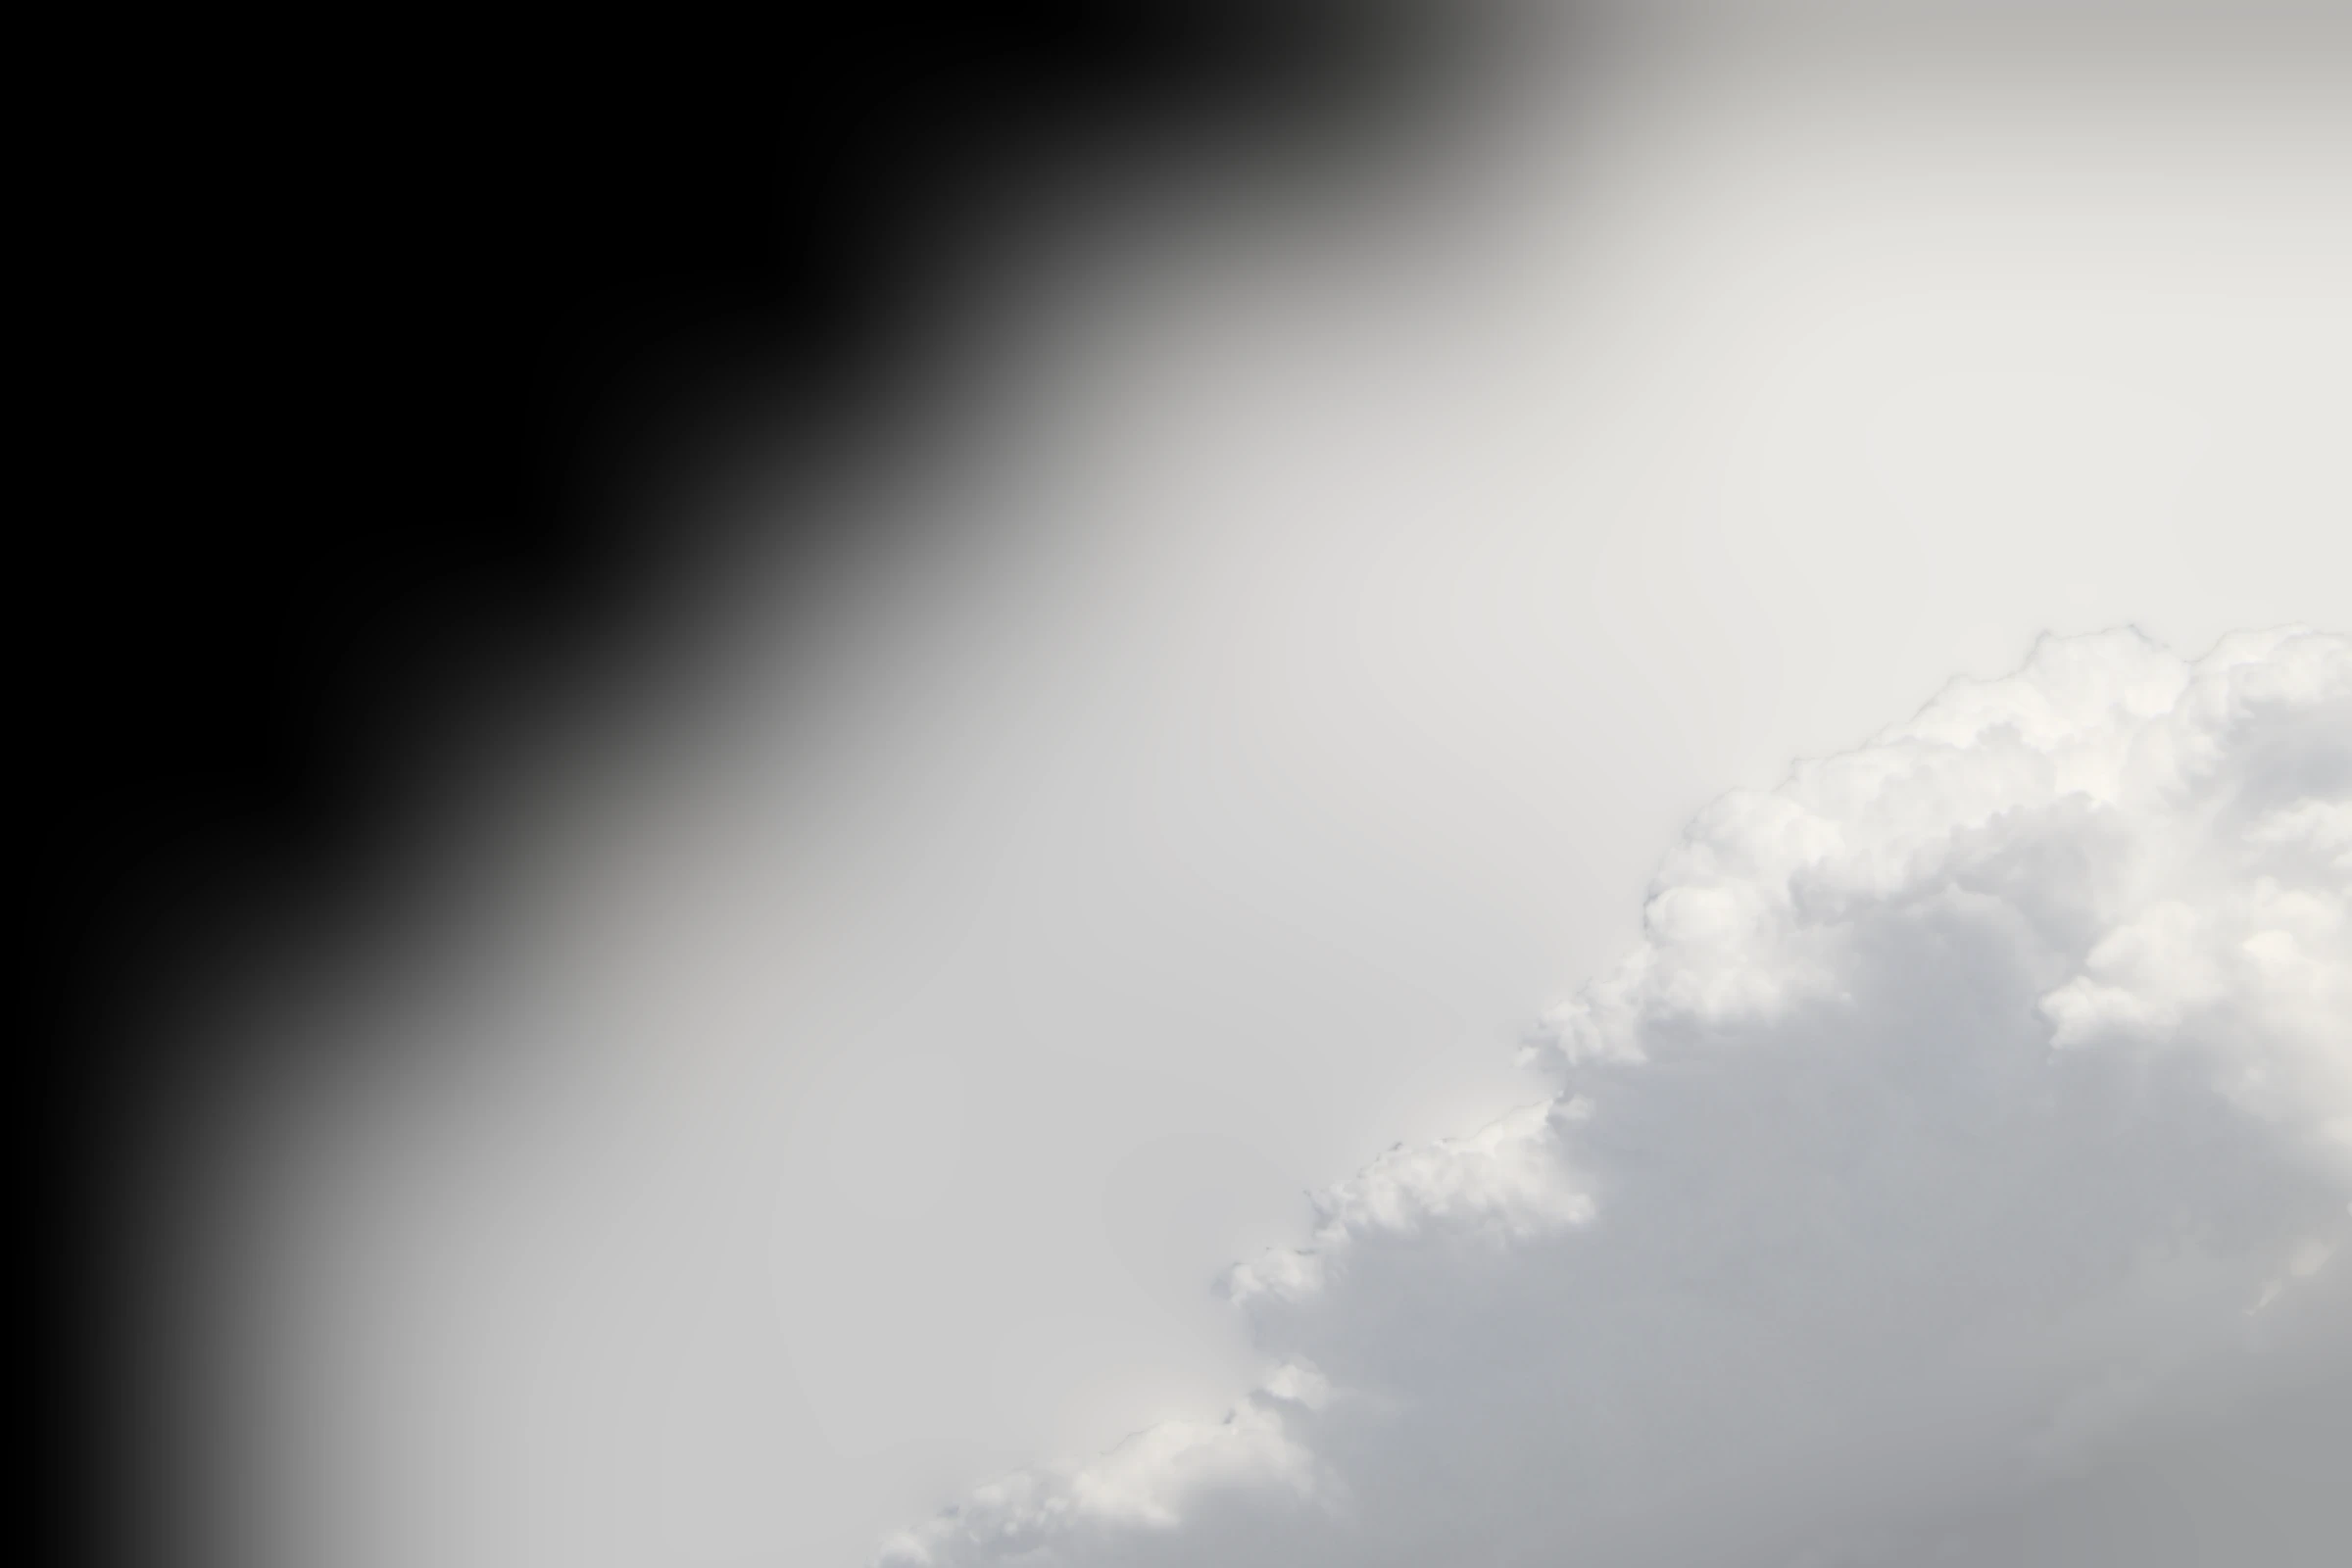
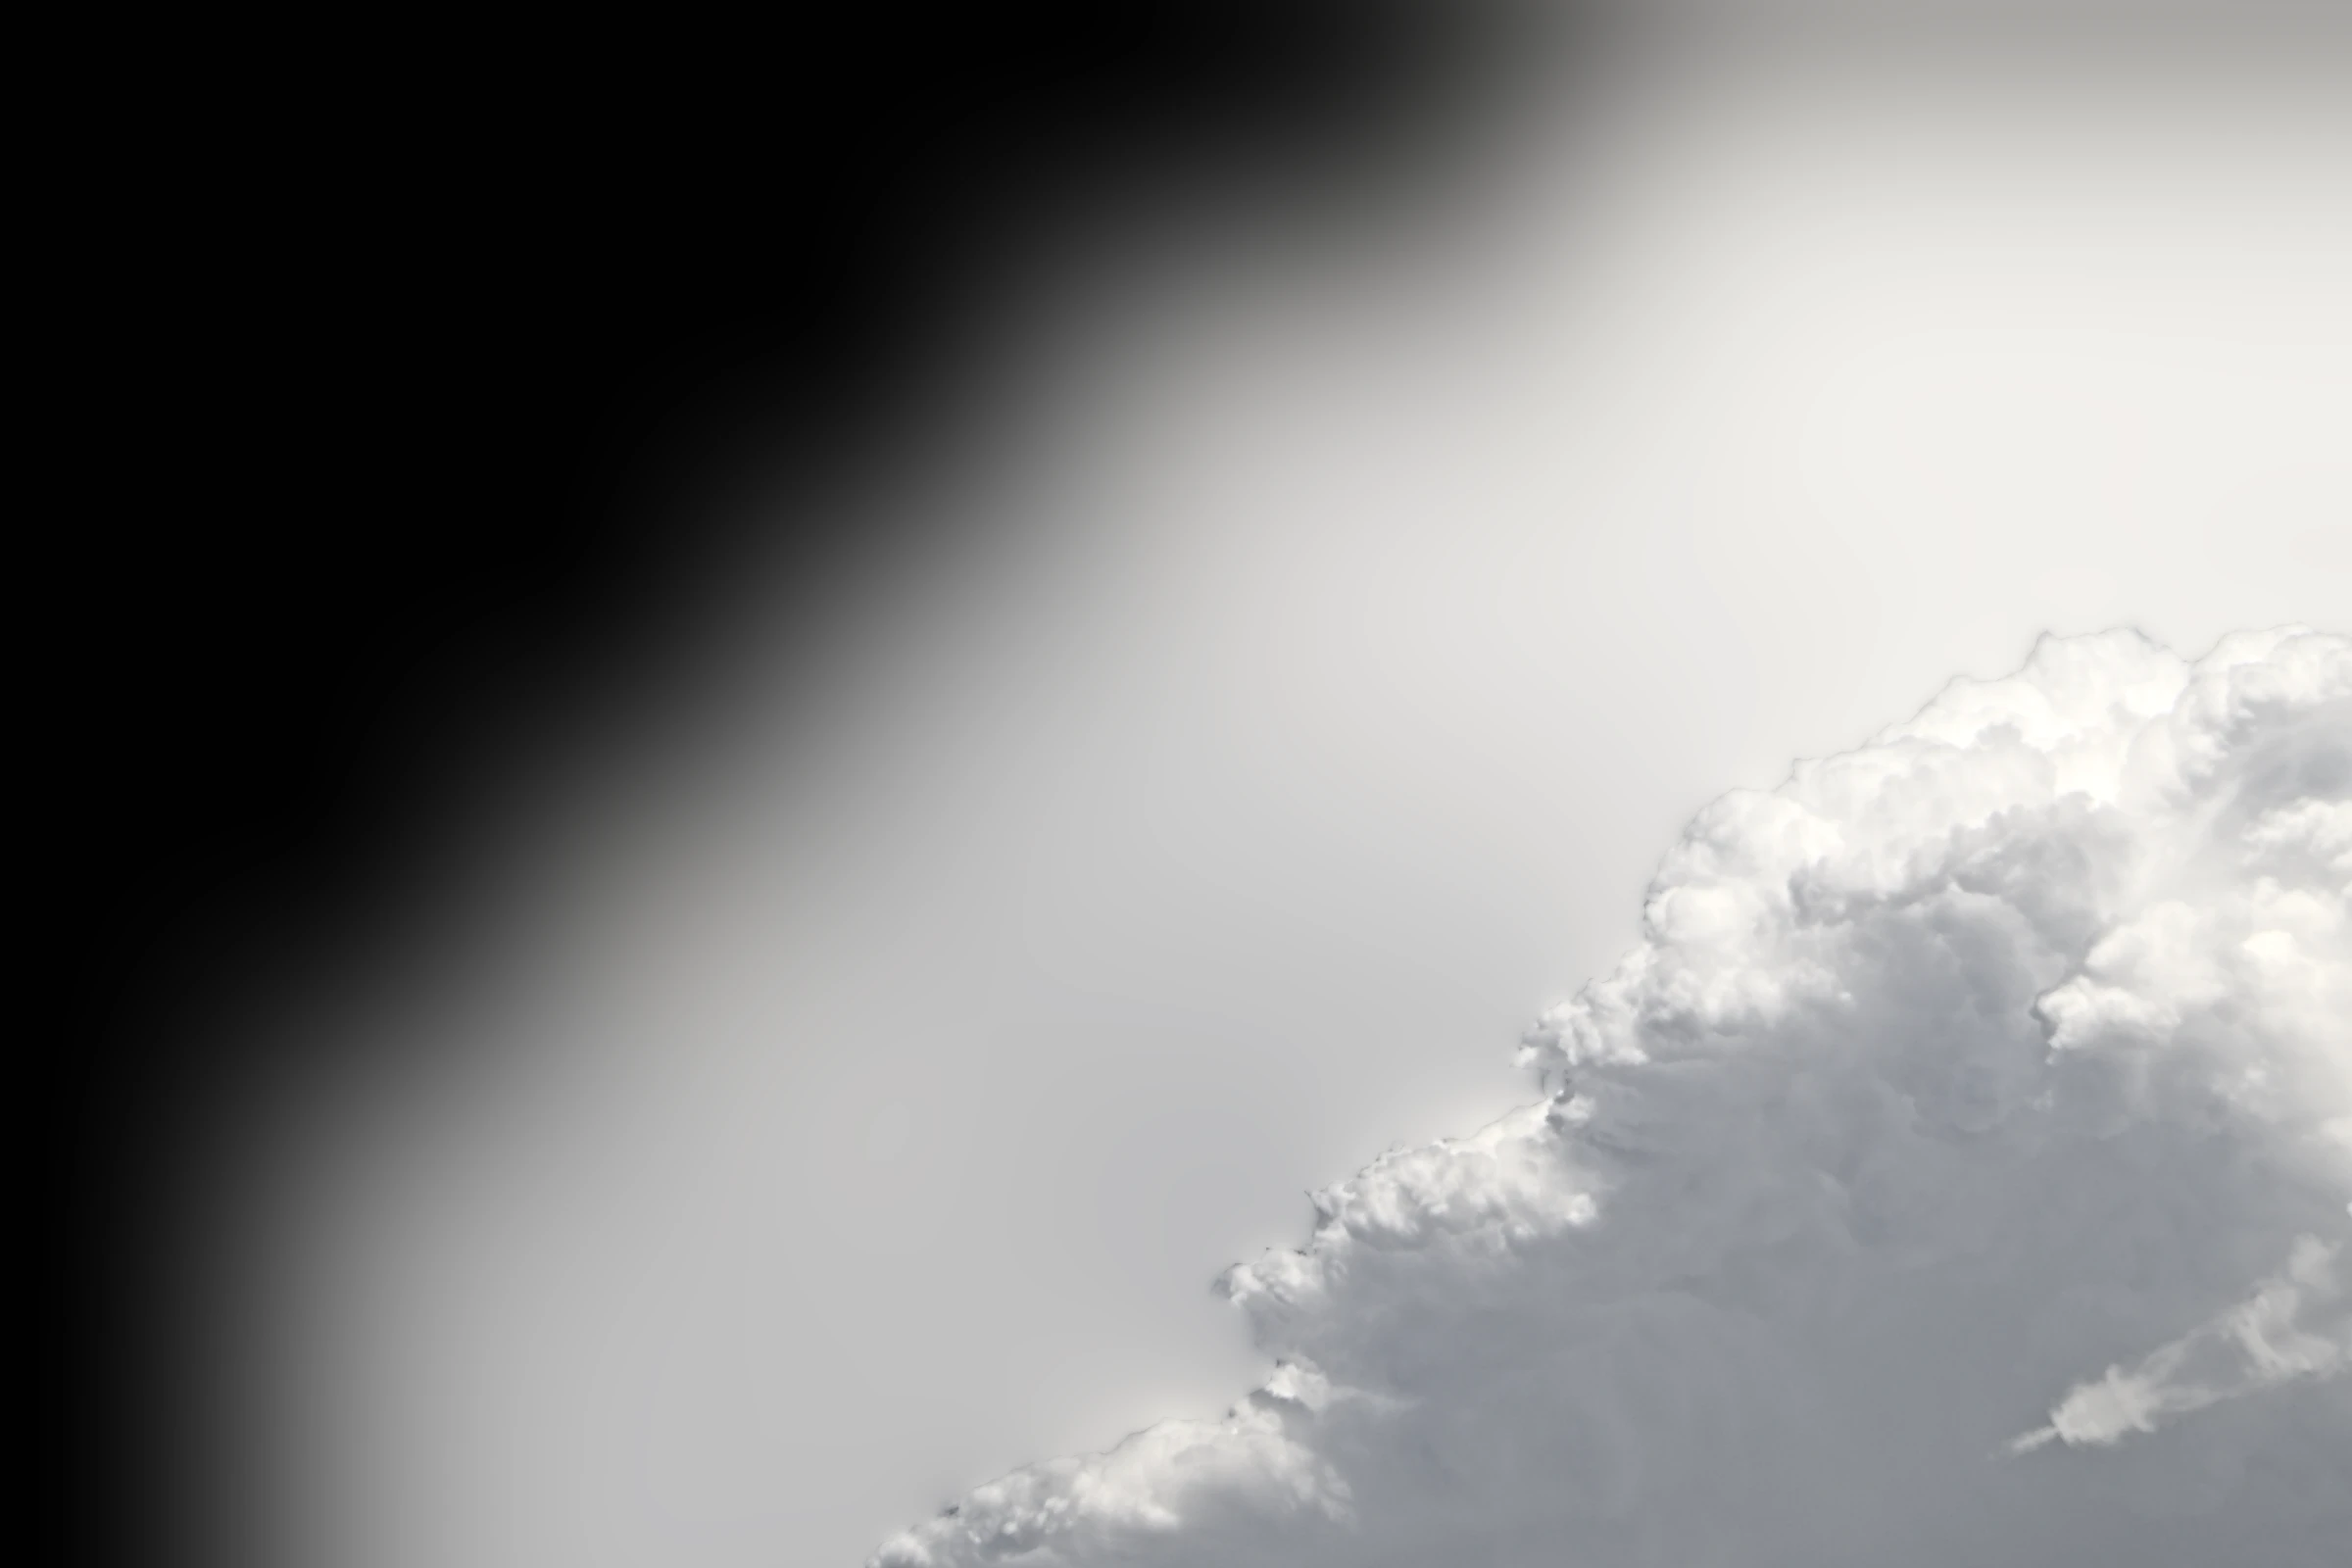
Lab: climb denchuka round 1
Claude-Session: https://claude.ai/code/session_01RqENhngNCzDFmJWDZueXGV

Changed region(s): [[0.0625, 0.0, 0.7188, 1.0], [0.4062, 0.625, 1.0, 1.0]]

diff --git a/src/app/lab/denchuka/denchukaEngine.js b/src/app/lab/denchuka/denchukaEngine.js
@@ -161,17 +161,19 @@ vec3 skyGrade(vec3 c, float zen) {
   return mix(cloud, sky, blue);
 }
 // The towering cumulus (cloud.py: a photographed tower, unclipped, placed
-// under this camera) graded into the same light: its shade sides take the
-// skylight's blue, deeper and more saturated the higher up the sky they are
-// (the cobalt ramp, zen), its sunlit tops go warm-neutral and roll off below
-// white; in between it stays near neutral.
+// under this camera) graded into the same light, so it glows: its sunlit
+// crowns warm-neutral and lifted to just under white (the film's shoulder
+// lands them at ~0.97, never clipped); its body, in its own shade, lit only by
+// the sky, takes the skylight's blue (~205, s ~0.35, ~0.6 of the crowns'
+// value), a little deeper and bluer the higher up the sky it is (the cobalt
+// ramp, zen). Value comes from the bake, so the billows carry through.
 vec3 cloudGrade(vec3 c, float zen) {
   float v = dot(c, vec3(0.2126, 0.7152, 0.0722));
-  float top = smoothstep(0.83, 0.95, v);
-  float shade = 1.0 - smoothstep(0.58, 0.86, v);
-  float val = v * mix(1.0, mix(0.97, 0.9, zen), shade);
-  vec3 shadeC = hsv2rgb(vec3((211.0 + 4.0 * zen) / 360.0, 0.07 + shade * mix(0.17, 0.25, zen), val));
-  vec3 sunC = hsv2rgb(vec3(38.0 / 360.0, 0.075, min(val, 0.955)));
+  float top = smoothstep(0.78, 0.97, v);
+  float shade = 1.0 - smoothstep(0.5, 0.86, v);
+  float val = min(v * mix(1.03, mix(1.1, 1.05, zen), shade), 1.0);
+  vec3 shadeC = hsv2rgb(vec3((205.0 + 4.0 * zen) / 360.0, mix(0.07, mix(0.33, 0.38, zen), shade), val));
+  vec3 sunC = hsv2rgb(vec3(40.0 / 360.0, 0.055, min(v * 1.035, 1.0)));
   return mix(shadeC, sunC, top);
 }
 // A wire's matte at a plate point, filtered bilinearly over its own texels

diff --git a/tools/depth/bakes/denchuka/cloud.py b/tools/depth/bakes/denchuka/cloud.py
@@ -22,20 +22,25 @@
 # pole's, and the camera's roll tilts it with the pole. The HDRI's tower stands
 # 3..28 degrees up; here it is nearer (twice the size, the same both ways, so
 # its billows keep their shape) and higher, its crown right of the shaft at
-# mid-frame. Its lower flank stands behind a tree in the HDRI, so it is given
-# a flat base above the tree, shaded, which falls at the bottom right corner.
+# mid-frame. Its lower flank stands behind a tree in the HDRI, so under a line
+# just above the tree the HDRI is read mirrored up about it: the body runs on,
+# in its own shade, out of the bottom right corner, with no flat base.
 #
 # Matte: the sky in the HDRI is a saturated blue, the cloud near neutral, so
 # the cloud's coverage is how far a pixel's blue excess q = (B - R) / (B + R)
 # has fallen from the clear sky's (fitted smoothly round it) toward the
-# cloud's. The cloud's own colour is unmixed from the sky behind it
+# cloud's. Its shade side, lit by the sky, is a little blue itself, so the
+# body is made solid inside its silhouette, and the edge gets a sub-pixel
+# feather, wider on the shaded underside than on the sunlit crowns. The
+# cloud's own colour is unmixed from the sky behind it
 # (pixel = a x cloud + (1 - a) x sky), filled outward from its edge by a
 # membrane, so the edge never carries the HDRI's sky into the plate's.
 #
 # Tone: linear radiance over the tower's brightest tops, through a soft shoulder
-# (sunlit tops land at ~0.95 and roll off, never clip), into display values the
-# live grade (denchukaEngine.js cloudGrade) then tints: shade to skylight blue,
-# sunlit tops warm-neutral, both deepened with elevation (sky.png G).
+# (sunlit crowns at ~0.99, rolling off, never clipped; the shaded body well
+# down, its faint billows lifted), into display values the live grade
+# (denchukaEngine.js cloudGrade) then tints: the body to the skylight's blue,
+# the crowns warm-neutral, so the tower glows against the cobalt.
 #
 # Writes cloud.webp (RGB: the cloud's colour, opaque) and the B channel of
 # sky.png (the cloud's coverage). Run after export.py, which writes sky.png R, G.
@@ -131,10 +136,6 @@ line = cv2.morphologyEx(line, cv2.MORPH_OPEN, np.ones((1, 41), np.uint8))
 line = cv2.dilate(line, np.ones((5, 9), np.uint8)) > 0
 print(f"power lines: {line.mean() * 100:.2f}% of the window")
 win = push_pull(win, (~line).astype(np.float32)) * line[..., None] + win * (~line)[..., None]
-img = cv2.remap(win, (uu - x0).astype(np.float32), (vv - y0).astype(np.float32), cv2.INTER_LANCZOS4,
-                borderMode=cv2.BORDER_REFLECT)
-img = np.maximum(img, 1e-5)
-
 # The base. Under the tower, in the HDRI, stand trees, a lamp post and a fence:
 # in each of its columns, the highest thing that is neither sky nor cloud (dark,
 # and not blue), its envelope smoothed across the columns. The tallest tree
@@ -142,7 +143,7 @@ img = np.maximum(img, 1e-5)
 # a cumulus has (its condensation level), at BASE deg or just above the
 # envelope, whichever is higher: an edge broken up by the cloud's own texture,
 # and shaded toward it (a cumulus's base is in its own shadow).
-BASE, BASE_SOFT, BASE_SHADE = 15.6, 2.4, 7.0
+BASE, BASE_SHADE = 15.6, 7.0
 wq = (win[..., 2] - win[..., 0]) / np.maximum(win[..., 2] + win[..., 0], 1e-6)
 wY = win @ np.array([0.2126, 0.7152, 0.0722], np.float32)
 rowY = np.median(wY[: max(8, (vv.min() - y0).astype(int) + 8)], axis=0)  # the sky high above, per column
@@ -162,6 +163,20 @@ if os.environ.get("CLOUD_DEBUG"):
     cv2.imwrite(os.environ["CLOUD_DEBUG"], (t[:, :, ::-1] * 255).astype(np.uint8)[::3, ::3])
 fx = np.clip(uu - x0, 0, win.shape[1] - 1).astype(np.int32)
 footEl = topEl[fx]
+
+# Below the base, the HDRI has trees, not cloud. A towering cumulus seen from
+# under it has no visible base in this corner of the frame: its body runs on
+# down out of the frame, in its own shade. So under the base (just above the
+# tree envelope) the HDRI is read mirrored up about that line: the billows
+# above it carry on below it, continuous across it, and the shade (below)
+# hides that they repeat.
+E0 = np.maximum(BASE, footEl + 0.6) + 0.8
+els_ = np.where(el < E0, 2 * E0 - el, el)
+vv = (0.5 - np.radians(els_) / np.pi) * EH - 0.5
+img = cv2.remap(win, (uu - x0).astype(np.float32), (vv - y0).astype(np.float32), cv2.INTER_LANCZOS4,
+                borderMode=cv2.BORDER_REFLECT)
+img = np.maximum(img, 1e-5)
+
 
 # ---------------------------------------------------------------- matte
 R_, G_, B_ = img[..., 0], img[..., 1], img[..., 2]
@@ -186,19 +201,34 @@ a = np.clip((qs - q) / np.maximum(qs - QC, 0.05), 0, 1)
 a *= np.clip((Y / (sky @ [0.2126, 0.7152, 0.0722]) - 0.95) / 0.35, 0, 1)
 a = cv2.GaussianBlur(a.astype(np.float32), (0, 0), 0.7)
 a = np.clip((a - 0.04) / 0.9, 0, 1)
-# the base: flat, broken by the cloud's own billows (its log luminance, band-passed)
-lY = np.log(np.maximum(Y, 1e-6))
-bp = cv2.GaussianBlur(lY, (0, 0), 3) - cv2.GaussianBlur(lY, (0, 0), 24)
-base = np.maximum(BASE, footEl + 0.6) - np.clip(bp, -0.5, 0.5) * 1.6
-foot = np.clip((el - base) / BASE_SOFT, 0, 1)
-foot = foot * foot * (3 - 2 * foot)
-a *= foot
-under = 1 - np.clip((el - base) / BASE_SHADE, 0, 1)
 # the anvil's far tail, streaming off to the left of the tower, thins out
 # into the blue (as an anvil's cirrus does) between TAIL0 and TAIL1 deg
 TAIL0, TAIL1 = -19.0, -29.0
 tail = np.clip((np.degrees(az) - TAIL1) / (TAIL0 - TAIL1), 0, 1)
-a *= tail * tail * (3 - 2 * tail)
+tail = tail * tail * (3 - 2 * tail)
+# The tower is opaque. Its shade side, lit by the sky, is a little blue, so the
+# blue-excess matte reads it as part clear (a ~0.6-0.9, noisy): the sky showed
+# through the body, and the body's colour, untrusted, went to the membrane, a
+# flat grey-blue haze with no billows. The body is solid: the matte's
+# silhouette (closed, its holes filled), drawn in from the edge so the edge
+# keeps its own soft fringe.
+ell = lambda r: cv2.getStructuringElement(cv2.MORPH_ELLIPSE, (2 * r + 1, 2 * r + 1))
+sil = cv2.morphologyEx((a > 0.4).astype(np.uint8), cv2.MORPH_CLOSE, ell(12))
+outside = sil.copy()
+cv2.floodFill(outside, np.zeros((H + 2, W + 2), np.uint8), (0, 0), 2)
+sil = (outside != 2).astype(np.uint8)
+body = cv2.GaussianBlur(cv2.erode(sil, ell(7)).astype(np.float32), (0, 0), 3)
+a = np.maximum(a, body)
+# Its edge, a sub-pixel feather (as the sky matte's): wider where the edge is
+# the shaded underside (soft, the cloud thinning into the light under it) than
+# on the sunlit crowns (crisp, as a cumulus's turrets are).
+Ys = cv2.GaussianBlur(Y.astype(np.float32), (0, 0), 6) / np.percentile(Y[a > 0.9], 99.5)
+soft = 1 - np.clip((Ys - 0.45) / 0.3, 0, 1)
+a = a + (cv2.GaussianBlur(a, (0, 0), 1.6) - a) * (0.35 + 0.65 * soft)
+a = np.clip(a * tail, 0, 1)
+# Under the base line (mirrored, above), and up the lower body, the tower is in
+# its own shadow, lit only by the sky: shaded, never faded out.
+under = np.clip((E0 + BASE_SHADE - el) / (BASE_SHADE + 3.0), 0, 1)
 
 # the cloud's own colour, unmixed against the sky behind it
 am = np.maximum(a, 1e-3)[..., None]
@@ -210,29 +240,47 @@ C = np.clip(C, 0, None)
 w = np.clip((a - 0.6) / 0.3, 0, 1).astype(np.float32)
 # (the rim itself is a few px of darker, bluer pixels where the cloud thins:
 # kept out, so the edge never draws a dark line round the cloud)
-w = cv2.erode(w, cv2.getStructuringElement(cv2.MORPH_ELLIPSE, (11, 11)))
+w = cv2.erode(w, ell(5))
 C = np.where((w > 0)[..., None], C, 0)
 Cf = push_pull(C.astype(np.float32), w)
 C = C * w[..., None] + Cf * (1 - w[..., None])
-# toward the base, the cloud is in its own shadow, lit only by the sky
-C = C * (1 - 0.45 * under * under)[..., None]
+C = C * (1 - 0.3 * under ** 1.5)[..., None]
+# Specks: a bird (or the like) caught in the HDRI against the tower, dark
+# against everything round it and small. Filled with a membrane of the cloud
+# round it, so it never shows as a dot on the clean sky's subject.
+lC = np.log(np.maximum(C @ np.array([0.2126, 0.7152, 0.0722]), 1e-4)).astype(np.float32)
+dark = ((lC < cv2.GaussianBlur(lC, (0, 0), 12) - 0.5) & (a > 0.5)).astype(np.uint8)
+n, lab, st, _ = cv2.connectedComponentsWithStats(dark, connectivity=8)
+speck = np.isin(lab, [i for i in range(1, n) if st[i, cv2.CC_STAT_AREA] < 1500])
+speck = cv2.dilate(speck.astype(np.uint8), ell(4)) > 0
+print(f"specks: {n - 1} dark spots, {speck.sum()} px filled")
+C = np.where(speck[..., None], push_pull(C.astype(np.float32), (~speck).astype(np.float32)), C)
 
 # ---------------------------------------------------------------- tone
 CY = C @ np.array([0.2126, 0.7152, 0.0722])
 ref = np.percentile(CY[a > 0.9], 99.5)
 x = CY / ref
-# soft shoulder: the tops at ~0.95, nothing ever reaches 1
-SH = 0.955
-KS = 2.6
-disp = SH * (1 - np.exp(-KS * np.maximum(x, 0) ** 0.56)) / (1 - np.exp(-KS))
+# The shade side's billows are faint in the HDRI (low contrast, in skylight):
+# their local contrast is lifted there (not on the sunlit crowns, already
+# crisp), so the body keeps its texture instead of going to a flat mass.
+lx = np.log(np.maximum(x, 1e-4)).astype(np.float32)
+lb = cv2.GaussianBlur(lx, (0, 0), 14)
+inshade = 1 - np.clip((np.exp(lb) - 0.35) / 0.4, 0, 1)
+x = np.exp(lx + (lx - lb) * 0.9 * inshade)
+# soft shoulder: the sunlit crowns at ~0.99 and rolling off, never clipped;
+# the shade well down (~0.6 of the tops), so the tower has its volume
+SH = 0.995
+KS = 2.4
+GX = 0.72
+disp = SH * (1 - np.exp(-KS * np.maximum(x, 0) ** GX)) / (1 - np.exp(-KS))
 chroma = C / np.maximum(CY, 1e-6)[..., None]
 # keep the HDRI's own tint, a little softened (the live grade sets the tint)
 chroma = 1 + (chroma - 1) * 0.6
 lin = chroma * (disp ** 2.2)[..., None]
 rgb = np.clip(lin, 0, 1) ** (1 / 2.2)
-print(f"cloud display: p50 {np.percentile(rgb[a > 0.5], 50):.3f}  p99.9 {np.percentile(rgb[a > 0.5], 99.9):.3f}  max {rgb[a > 0.5].max():.3f}")
+ry = rgb[a > 0.9] @ np.array([0.2126, 0.7152, 0.0722])
+print("cloud display Y: " + "  ".join(f"p{p} {np.percentile(ry, p):.3f}" for p in (5, 25, 50, 75, 95, 99, 99.9)) + f"  max {rgb[a > 0.5].max():.3f}")
 print(f"coverage: {np.mean(a > 0.5) * 100:.1f}% of the frame")
-
 # ---------------------------------------------------------------- write
 cv2.imwrite(out + "cloud.webp", (np.clip(rgb, 0, 1)[:, :, ::-1] * 255 + 0.5).astype(np.uint8), [cv2.IMWRITE_WEBP_QUALITY, 90])
 sk = cv2.imread(out + "sky.png", cv2.IMREAD_COLOR)  # BGR
